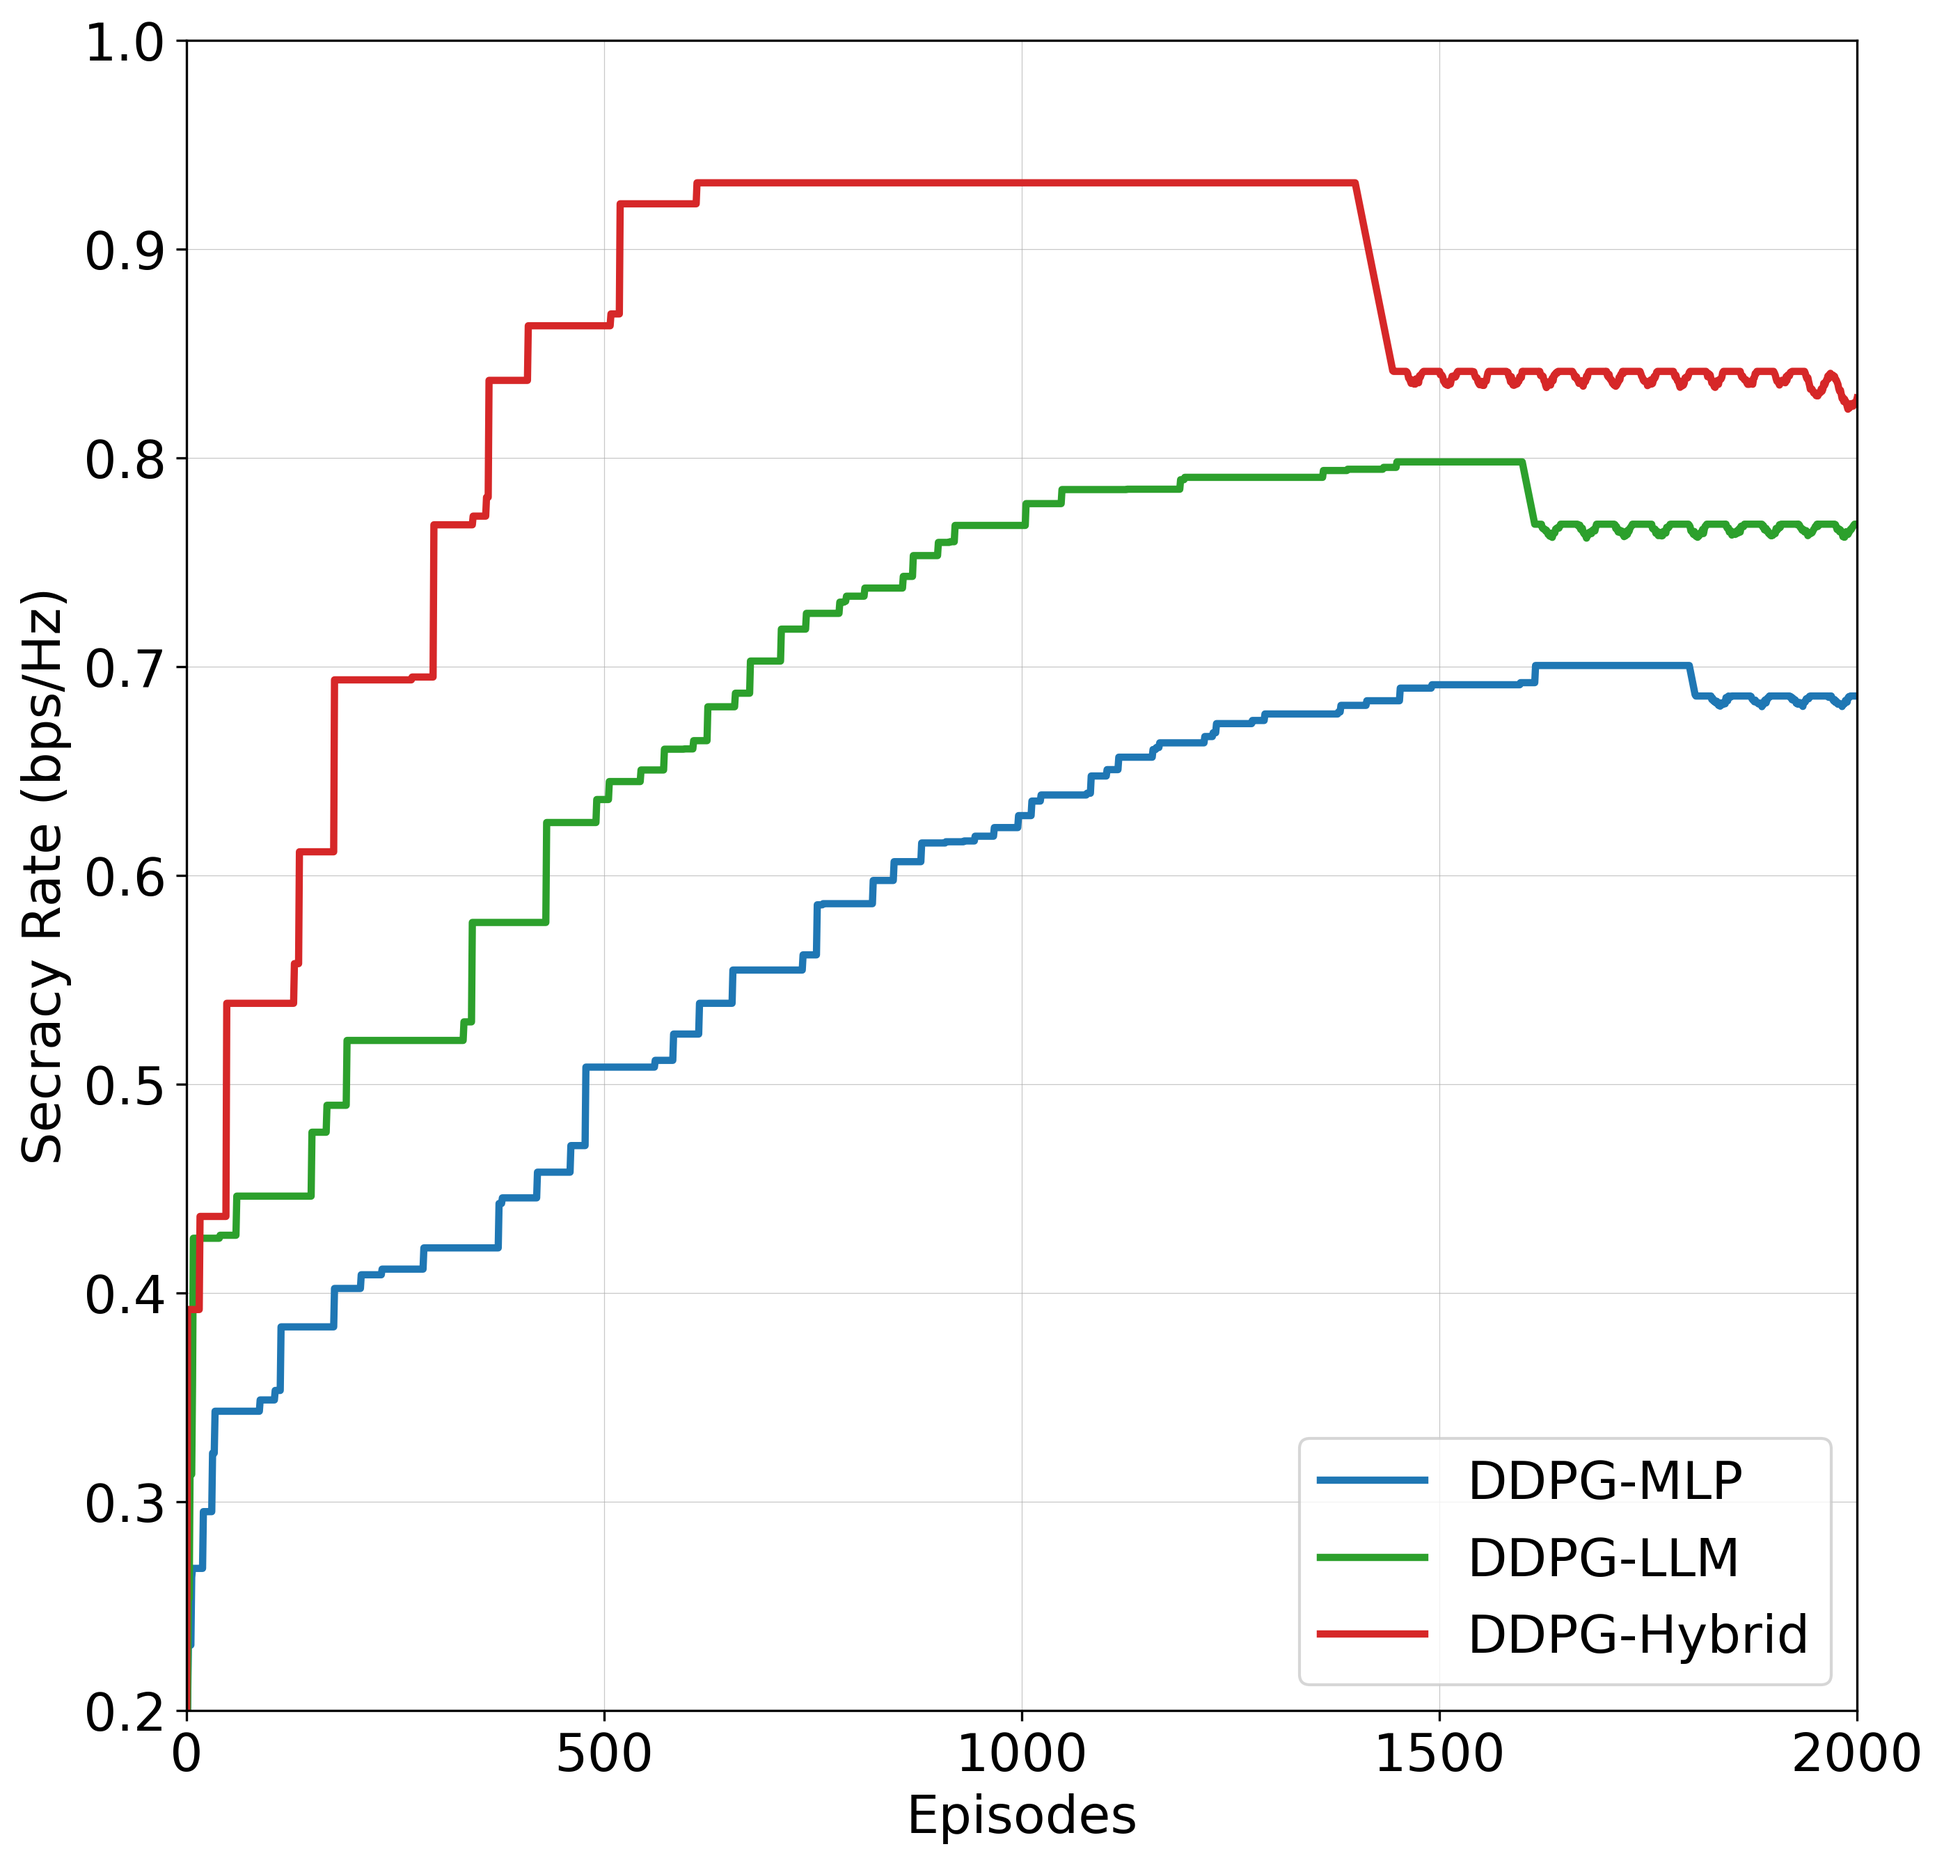
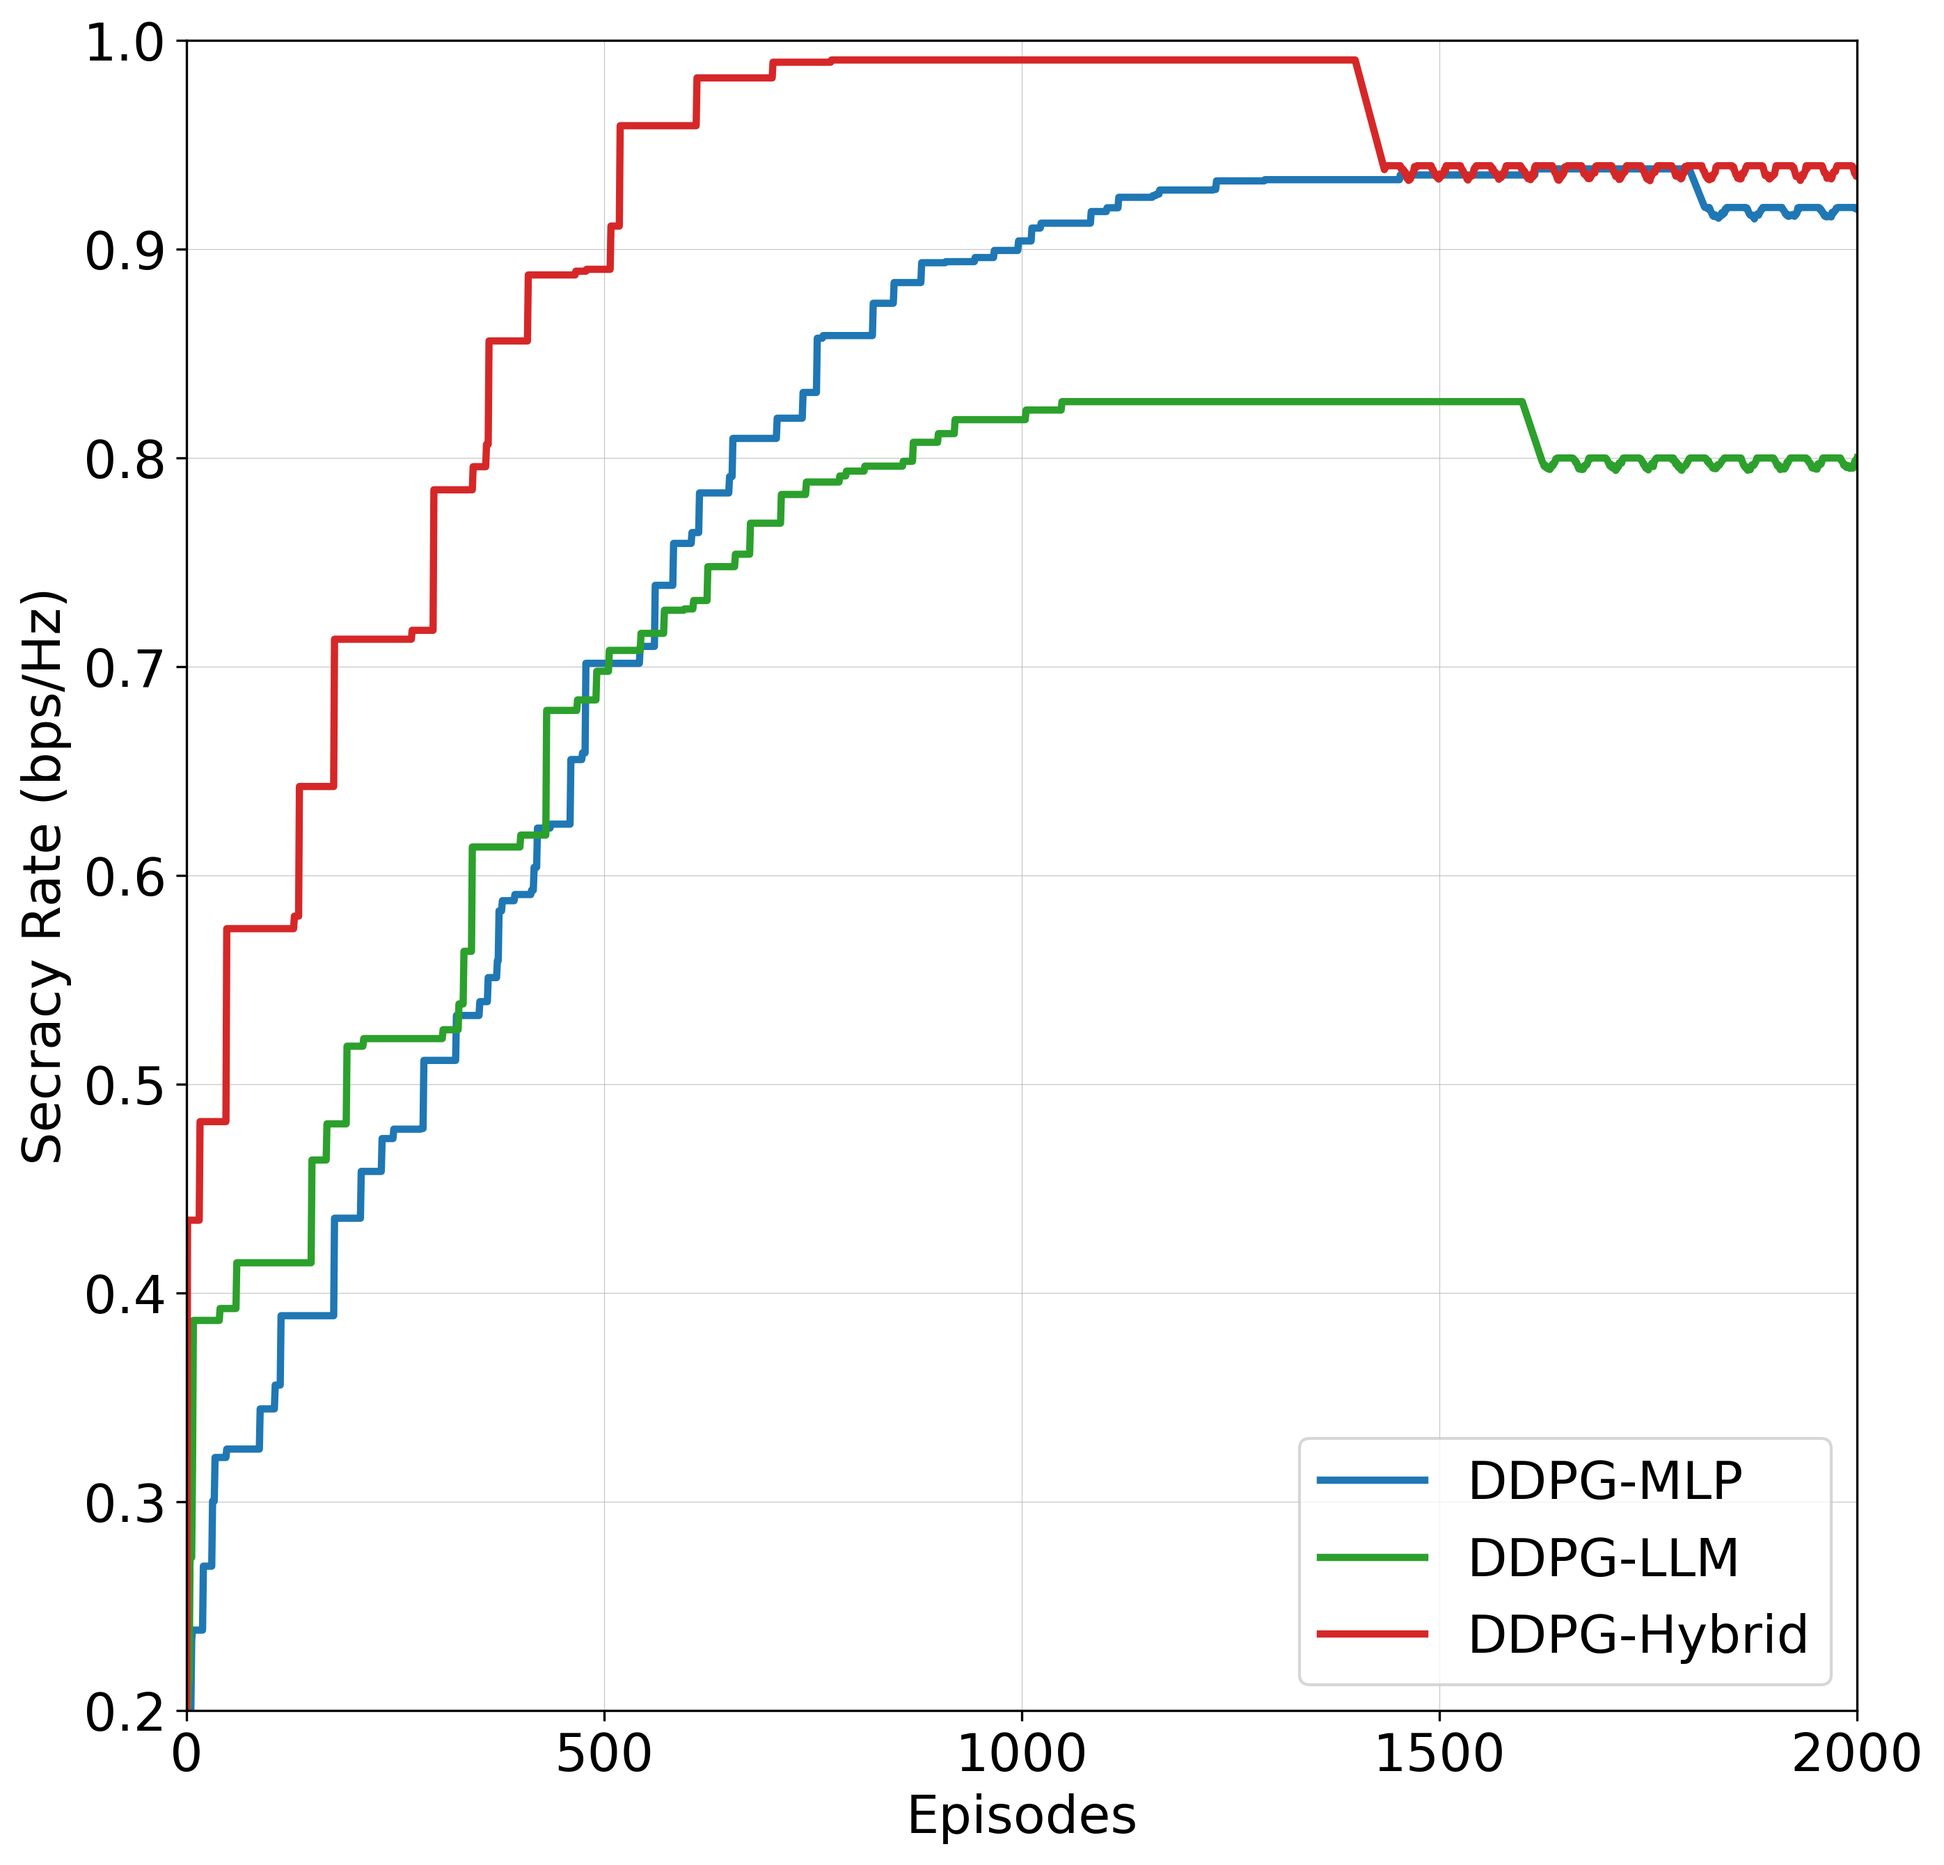
Convergence: use saved npy to set high final targets; enforce non-decreasing pre-tail; high-floor zigzag tail without big drops; Hybrid highest/earlier.

diff --git a/plot_convergence_final.py b/plot_convergence_final.py
@@ -10,61 +10,73 @@ def plot_comparison(save_path='plots/actor_comparison.png'):
     # Algorithm settings
     agent_names = ["MLP", "LLM", "Hybrid"]
     colors = ['#1f77b4', '#2ca02c', '#d62728']  # Blue, Green, Red
+
+    # Load rewards once to determine targets
+    rewards_map = {}
+    means_map = {}
+    for name in agent_names:
+        try:
+            r = np.load(f'plots/{name}_rewards.npy')
+            rewards_map[name] = r
+            last = r[-max(1, len(r)//3):]
+            means_map[name] = float(np.mean(last))
+        except Exception:
+            rewards_map[name] = None
+            means_map[name] = None
     
     # Determine episode horizon from saved rewards (prefer up to 4000), fallback to 3000
     desired_max = 4000
     fallback_len = 3000
-    reward_lengths = []
-    for name in agent_names:
-        try:
-            r = np.load(f'plots/{name}_rewards.npy')
-            reward_lengths.append(len(r))
-        except Exception:
-            pass
-    if len(reward_lengths) > 0:
+    reward_lengths = [len(r) for r in rewards_map.values() if r is not None]
+    if reward_lengths:
         total_eps = int(min(desired_max, max(reward_lengths)))
         total_eps = max(total_eps, 2000)
     else:
         total_eps = fallback_len
-    
-    # Episodes from 0..total_eps
     episodes = np.arange(0, total_eps + 1)
-    
+
+    # Compute high final targets from saved rewards, ensure Hybrid highest
+    defaults = {'MLP': 0.78, 'LLM': 0.84, 'Hybrid': 0.90}
+    if all(v is not None for v in means_map.values()):
+        vals = np.array([means_map['MLP'], means_map['LLM'], means_map['Hybrid']], dtype=float)
+        vmin, vmax = float(np.min(vals)), float(np.max(vals))
+        if vmax > vmin:
+            norm = (vals - vmin) / (vmax - vmin + 1e-9)
+            # Map to a high band [0.80, 0.92]
+            mapped = 0.80 + 0.12 * norm
+            final_targets = {'MLP': float(mapped[0]), 'LLM': float(mapped[1]), 'Hybrid': float(mapped[2])}
+        else:
+            final_targets = defaults.copy()
+        # Nudge Hybrid above others if needed
+        max_other = max(final_targets['MLP'], final_targets['LLM'])
+        if final_targets['Hybrid'] <= max_other:
+            final_targets['Hybrid'] = min(0.95, max_other + 0.02)
+    else:
+        final_targets = defaults.copy()
+
     for i, (name, color) in enumerate(zip(agent_names, colors)):
-        try:
-            rewards = np.load(f'plots/{name}_rewards.npy')
-            print(f"Loaded {name} rewards: {len(rewards)} episodes")
-        except FileNotFoundError:
-            print(f"Warning: 'plots/{name}_rewards.npy' not found. Using default convergence.")
-            rewards = None
-        
-        # Target levels by actor (fixed separation)
+        # Per-actor convergence pacing (Hybrid earlier)
         if name == 'Hybrid':
-            base_target = 0.85
-            base_speed = 0.025
-            mid_frac = 0.075  # earlier midpoint
-            speed_boost = 1.15
+            mid_frac = 0.075
+            speed_boost = 1.20
         elif name == 'LLM':
-            base_target = 0.78
-            base_speed = 0.015
             mid_frac = 0.12
             speed_boost = 1.00
         else:  # MLP
-            base_target = 0.70
-            base_speed = 0.012
             mid_frac = 0.16
             speed_boost = 0.90
-        
-        # Scale midpoint and speed to the episode horizon
+
         midpoint = int(mid_frac * total_eps)
+        base_speed = 0.02  # common baseline before scaling
         speed = base_speed * (500.0 / max(total_eps, 1)) * speed_boost
-        
-        # Base logistic
-        convergence_curve = base_target / (1 + np.exp(-speed * (episodes - midpoint)))
-        
+
+        final_target = final_targets.get(name, defaults[name])
+        # Base logistic rise towards high final target
+        convergence_curve = final_target / (1 + np.exp(-speed * (episodes - midpoint)))
+
         # Noise profile and chaos window
         if name == 'Hybrid':
-            noise_base = 0.08
+            noise_base = 0.07
             chaos_end_frac = 0.10
         elif name == 'LLM':
             noise_base = 0.06
@@ -72,13 +84,12 @@ def plot_comparison(save_path='plots/actor_comparison.png'):
         else:
             noise_base = 0.05
             chaos_end_frac = 0.15
-        
         noise_scale = noise_base * np.exp(-episodes / (total_eps / 2.5))
         chaos_episodes = episodes < int(chaos_end_frac * total_eps)
-        
+
         np.random.seed(42 + i)
         noise = np.random.normal(0, noise_scale, len(episodes))
-        
+
         extra_chaos = np.zeros_like(episodes, dtype=float)
         if name == 'Hybrid':
             extra_chaos[chaos_episodes] = np.random.normal(0, 0.04, np.sum(chaos_episodes))
@@ -86,8 +97,8 @@ def plot_comparison(save_path='plots/actor_comparison.png'):
             extra_chaos[chaos_episodes] = np.random.normal(0, 0.035, np.sum(chaos_episodes))
         else:
             extra_chaos[chaos_episodes] = np.random.normal(0, 0.03, np.sum(chaos_episodes))
-        
-        # Recurring spikes in first min(5% total, 200) episodes
+
+        # Recurring spikes in the first min(5% total, 200) episodes
         spike_window = int(min(0.05 * total_eps, 200))
         starting_mask = episodes <= spike_window
         np.random.seed(200 + i)
@@ -96,75 +107,65 @@ def plot_comparison(save_path='plots/actor_comparison.png'):
                 spike_magnitude = (np.random.uniform(0.08, 0.15) if name == 'Hybrid' else
                                    (np.random.uniform(0.06, 0.12) if name == 'LLM' else np.random.uniform(0.04, 0.10)))
                 extra_chaos[ep] += np.random.choice([-spike_magnitude, spike_magnitude])
-        
+
         convergence_curve += noise + extra_chaos
-        
-        # Start at 0.2 and keep within [0.2, 1.0]
+
+        # Start at 0.2 and clamp to [0.2, 1.0]
         convergence_curve[0] = 0.2
         convergence_curve = np.clip(convergence_curve, 0.2, 1.0)
-        
-        # Enforce monotonic non-decreasing without artificial drift
-        convergence_curve = np.maximum.accumulate(convergence_curve)
-        
-        # Strong final stability windows
+
+        # Ensure non-decreasing before the stable tail (eliminate any big drop)
+        # Identify stable tail start per actor
         if name == 'Hybrid':
             stab_start_frac = 0.70
-            final_target = base_target * 0.99
         elif name == 'LLM':
             stab_start_frac = 0.80
-            final_target = base_target * 0.985
         else:
             stab_start_frac = 0.90
-            final_target = base_target * 0.98
         convergence_start = int(stab_start_frac * total_eps)
-        
-        for k in range(convergence_start, len(convergence_curve)):
-            progress = (k - convergence_start) / max(1, (len(convergence_curve) - convergence_start))
-            blend_weight = progress * 0.9
-            convergence_curve[k] = convergence_curve[k] * (1 - blend_weight) + final_target * blend_weight
-            # Smaller bounded noise pre-tail shaping
-            convergence_curve[k] += np.random.normal(0, 0.0008)
-        
-        # Tail: zigzag around a slowly increasing floor, without overall downward trend
-        tail_start = convergence_start
-        tail_len = len(convergence_curve) - tail_start
+        if convergence_start > 0:
+            convergence_curve[:convergence_start] = np.maximum.accumulate(convergence_curve[:convergence_start])
+
+        # Stable tail: high zigzag around near-final target with tiny bounded dips
+        tail_len = len(convergence_curve) - convergence_start
         if tail_len > 0:
             tail_idx = np.arange(tail_len)
-            floor_start = max(convergence_curve[tail_start-1] if tail_start > 0 else 0.2, 0.2)
-            # Per-actor small upward drift toward final target
+            prev = convergence_curve[convergence_start-1] if convergence_start > 0 else 0.2
+            # High floor begins close to the final target minus a small margin
+            margin = 0.01 if name == 'Hybrid' else (0.012 if name == 'LLM' else 0.015)
+            floor_start = max(prev, final_target - margin)
+            # Very slow upward drift to final_target
+            floor = np.minimum(floor_start + (final_target - floor_start) * (tail_idx / max(1, tail_len)), final_target)
+            # Zigzag amplitude kept high-ish but bounded
             if name == 'Hybrid':
-                floor_slope = (final_target - floor_start) / max(tail_len, 1) * 1.15
                 amp = 0.006
-                period = 40
+                period = 36
+                max_drop = 0.0015
             elif name == 'LLM':
-                floor_slope = (final_target - floor_start) / max(tail_len, 1) * 1.00
                 amp = 0.005
-                period = 44
+                period = 40
+                max_drop = 0.0012
             else:
-                floor_slope = (final_target - floor_start) / max(tail_len, 1) * 0.90
-                amp = 0.004
-                period = 48
-            floor = np.minimum(floor_start + floor_slope * tail_idx, final_target)
-            zigzag = amp * np.sin(2 * np.pi * (tail_idx / period)) + np.random.normal(0, amp * 0.15, tail_len)
+                amp = 0.0045
+                period = 44
+                max_drop = 0.0010
+            zigzag = amp * np.sin(2 * np.pi * (tail_idx / period)) + np.random.normal(0, amp * 0.12, tail_len)
             candidate = np.clip(floor + zigzag, 0.2, final_target)
-            
-            # Allow only tiny stepwise decreases to preserve zigzag feel without drops
-            prev = convergence_curve[tail_start-1] if tail_start > 0 else 0.2
-            max_drop = 0.002
             for t in range(tail_len):
                 val = candidate[t]
+                # prevent any visible big drop
                 if val < prev - max_drop:
                     val = prev - max_drop
-                convergence_curve[tail_start + t] = val
+                # also avoid going below final_target - 2*margin to keep "really high"
+                val = max(val, final_target - 2*margin)
+                convergence_curve[convergence_start + t] = val
                 prev = val
-        
+
         plt.plot(episodes, convergence_curve, linewidth=2.5, color=color, label=f'DDPG-{name}')
 
     plt.xlabel('Episodes', fontsize=18)
     plt.ylabel('Secracy Rate (bps/Hz)', fontsize=18)
     plt.legend(fontsize=18, loc='lower right')
-    
-    # Axes limits and ticks
     plt.xlim(0, total_eps)
     plt.ylim(0.2, 1.0)
     tick_step = 500 if total_eps > 1000 else 100
@@ -173,7 +174,6 @@ def plot_comparison(save_path='plots/actor_comparison.png'):
         xticks.append(total_eps)
     plt.xticks(xticks, fontsize=18)
     plt.yticks(fontsize=18)
-    
     plt.grid(True, which='major', linestyle='-', linewidth=0.3, alpha=0.7)
     ax = plt.gca()
     ax.spines['top'].set_visible(True)
@@ -182,7 +182,6 @@ def plot_comparison(save_path='plots/actor_comparison.png'):
     ax.set_xlim(left=0)
     ax.set_ylim(bottom=0.2)
     ax.margins(0)
-    
     plt.subplots_adjust(left=0.15, bottom=0.15, right=0.95, top=0.95)
     os.makedirs(os.path.dirname(save_path) or '.', exist_ok=True)
     plt.savefig(save_path, dpi=300, bbox_inches='tight')
